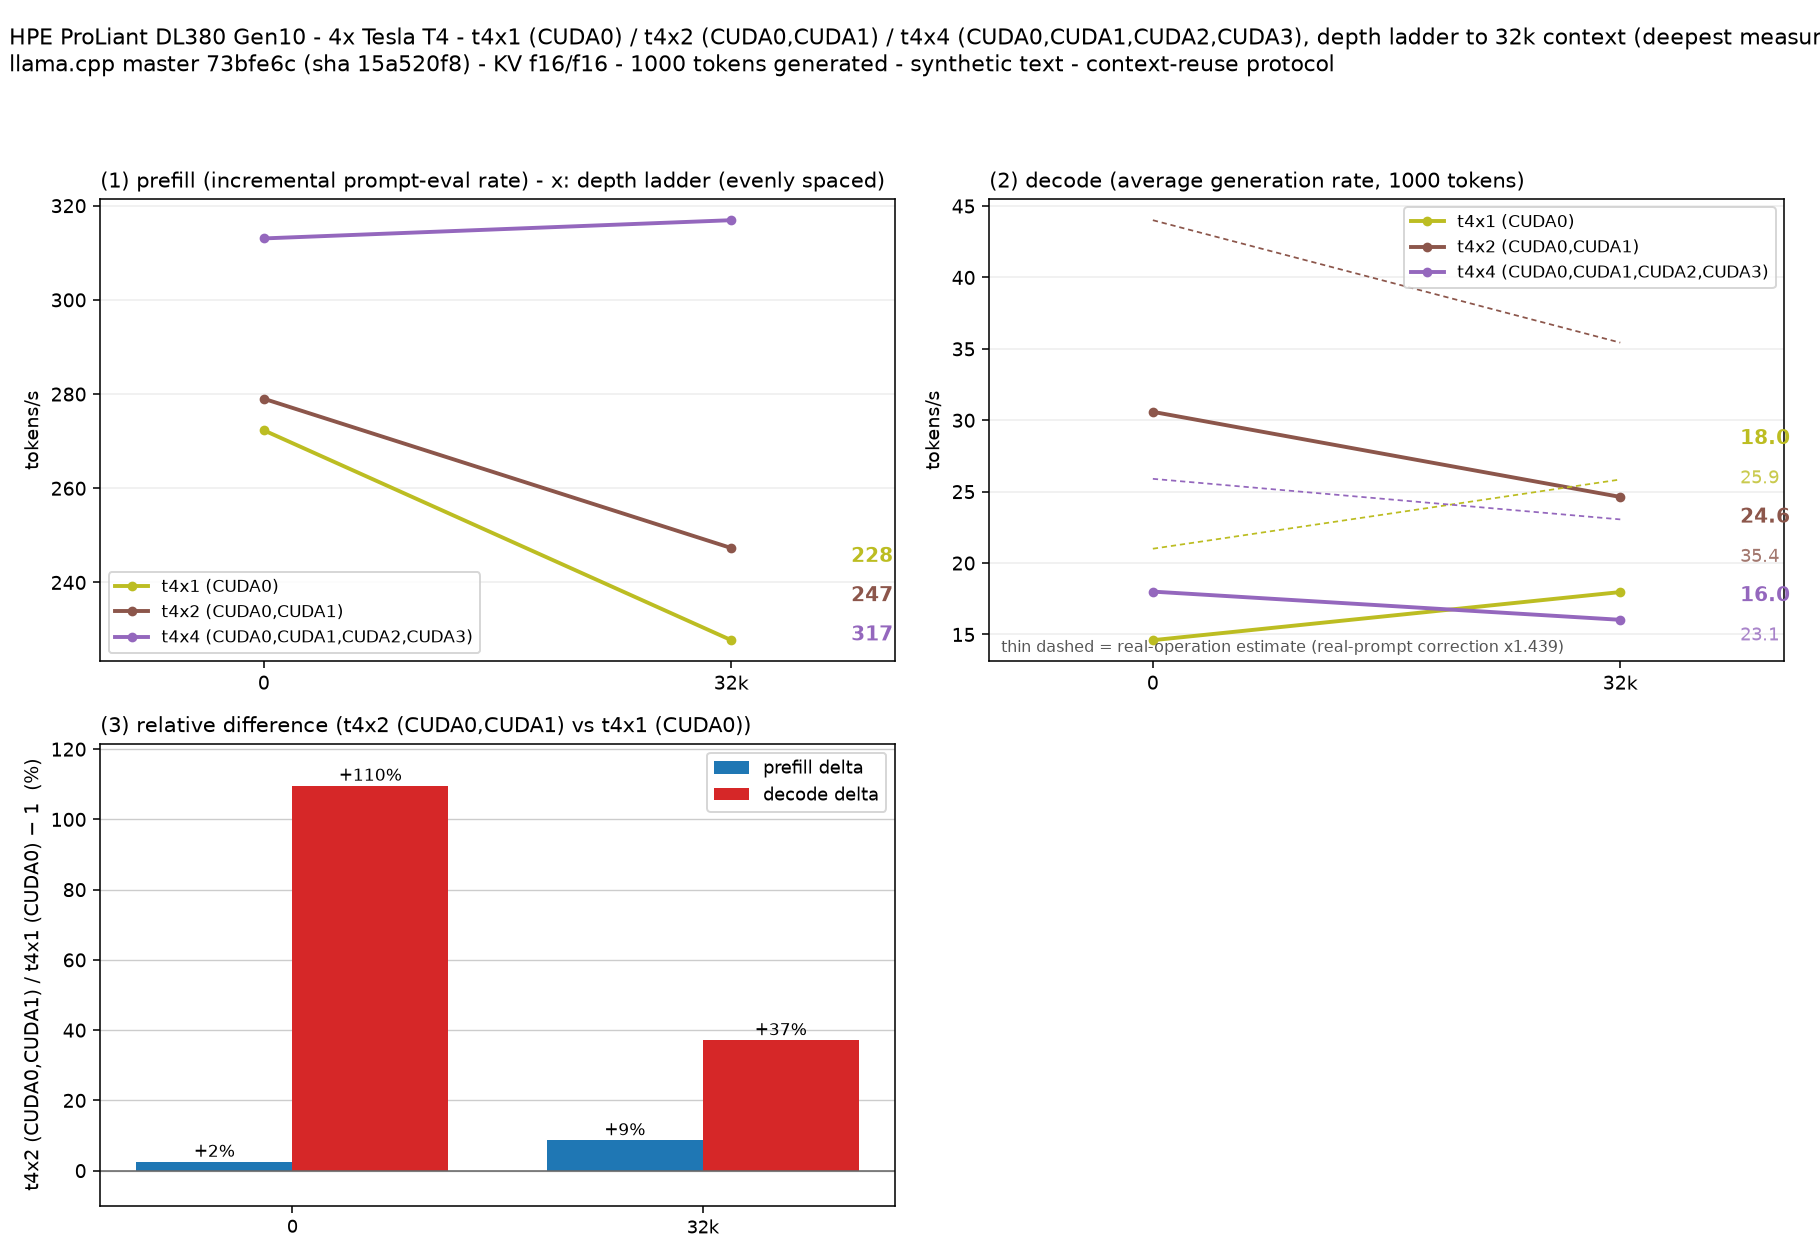
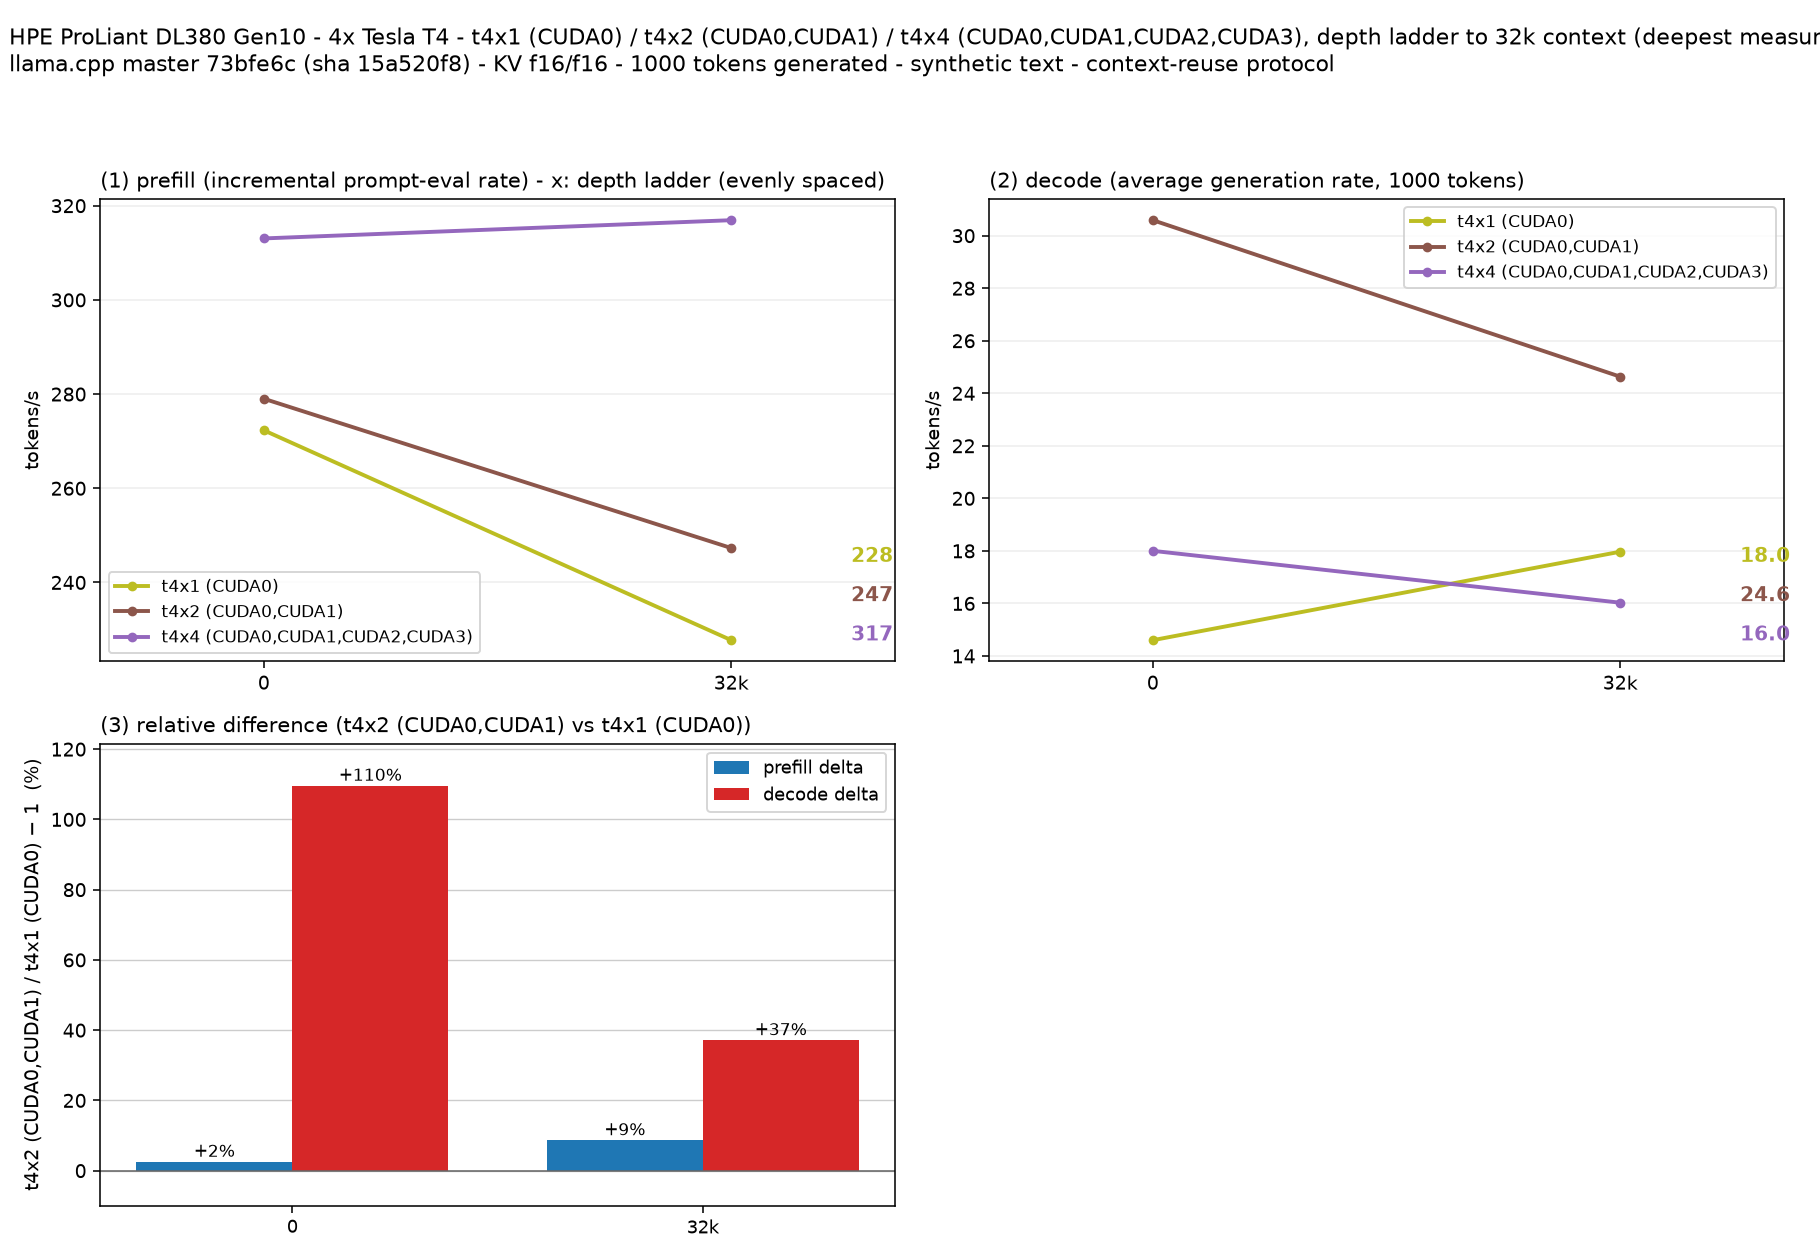
report: drop the misleading estimate line and attach evidence for manual numbers
- re-plot ptq1-scale-32k without the real-operation estimate (factor came from the 1-GPU arm only)
- add manual-mtp-probe.json (re-run of the 8k MTP probes) and use its numbers
- add vram-at-load.txt and mtp-2gpu-262k-stage0.json for the VRAM/OOM claims

diff --git a/report/2026-10-21_090037_profiling_ternary_bonsai_2_27b_up_to_256k_on_4x_tesla_t4.md b/report/2026-10-21_090037_profiling_ternary_bonsai_2_27b_up_to_256k_on_4x_tesla_t4.md
@@ -113,7 +113,7 @@ prefill は 258k で PQ2_0 90.9 対 PTQ1_0 90.4 t/s、32k で 312.7 対 300.8 t/
 
 ![GPU 枚数の比較](attachment/2026-10-21_090037_profiling_ternary_bonsai_2_27b_up_to_256k_on_4x_tesla_t4/ptq1-scale-32k/split-bench-ja.png)
 
-いずれも layer 分割、KV f16 です。
+いずれも layer 分割、KV f16 です。この図では薄い破線の「実運用推定」を外しています。補正係数（1.439）は 1 枚の腕の実プロンプト計測から求めた値で、そのまま 2 枚・4 枚の腕に当てると実測より高い線になり誤解を招くためです。
 
 | 構成 | prefill（32k） | decode（depth 0） | decode（32k） |
 |------|------:|------:|------:|
@@ -164,13 +164,23 @@ MTP なしの PTQ1_0（同じ 4 枚・262k・KV f16）との比較です。
 | PTQ1_0（MTP なし、2 枚） | 30.59 | 24.63 | — |
 | PTQ1_0 + MTP（2 枚、n-max 2） | 51.00 | 48.95 | 0.993 |
 
-同じ 2 枚・32k で比べると、MTP は decode を **1.67 倍（depth 0）/ 1.99 倍（32k）** に伸ばしました。27B 級を T4 2 枚で約 49 t/s で回せる計算になります。深さ 32k で採択率が 0.993 まで上がるのは、フィラーで埋めた長いプロンプトの続きを書かせる計測の性質上、下書きが当たりやすいためです。この腕は実プロンプト補正の前（32k 段の直後）に中断したため、上の表はラダー値そのままで、4 枚の実測（補正係数 0.780）を当てはめると実運用は 40 t/s 前後になります。参考として、8k コンテキスト・コード生成プロンプト（600 トークン、temperature 0）の手動計測では 2 枚 + MTP が 46.3 t/s（採択率 0.697、n-max 2）、44.3 t/s（同 0.828、n-max 1）でした。**n-max 2 の方が速く**、4 枚 + MTP の同条件は 30.5 t/s（同 0.754）でした。
+同じ 2 枚・32k で比べると、MTP は decode を **1.67 倍（depth 0）/ 1.99 倍（32k）** に伸ばしました。27B 級を T4 2 枚で約 49 t/s で回せる計算になります。深さ 32k で採択率が 0.993 まで上がるのは、フィラーで埋めた長いプロンプトの続きを書かせる計測の性質上、下書きが当たりやすいためです。この腕は実プロンプト補正の前（32k 段の直後）に中断したため、上の表はラダー値そのままで、4 枚の実測（補正係数 0.780）を当てはめると実運用は 40 t/s 前後になります。
 
-262k を 2 枚で確保しようとした腕は、32k 段の prefill 時に CUDA1 の計算バッファ（約 1.2 GB）を確保できず `cudaMalloc failed: out of memory` で中断しました（ロード直後の時点で GPU0 12,407 MiB / GPU1 14,899 MiB を使用）。f16 KV の 262k は 2 枚では計算バッファの余裕が残らないため、**256k で MTP を使うなら 4 枚か、KV の量子化が必要**です。なお、この中断した腕でも depth 0 の decode は 52.90 t/s（採択率 0.895）と記録されています。
+参考として、8k コンテキスト・コード生成プロンプト（600 トークン、temperature 0）の手動計測を別途 3 回行いました（生の `timings` は [manual-mtp-probe.json](attachment/2026-10-21_090037_profiling_ternary_bonsai_2_27b_up_to_256k_on_4x_tesla_t4/manual-mtp-probe.json)）。
+
+| 構成 | decode | 採択率 |
+|------|------:|------:|
+| 2 枚 + MTP（n-max 2） | 46.17 t/s | 0.697 |
+| 2 枚 + MTP（n-max 1） | 43.77 t/s | 0.828 |
+| 4 枚 + MTP（n-max 2） | 29.41 t/s | 0.697 |
+
+**n-max 2 の方が速く**、4 枚は同じ条件でも 2 枚の 64% まで落ちます。この手動計測は 2 回実施し、decode は 3% 以内で一致しました。
+
+262k を 2 枚で確保しようとした腕は、32k 段の prefill 時に CUDA1 の計算バッファ（約 1.2 GB）を確保できず `cudaMalloc failed: out of memory` で中断しました（ロード直後の時点で GPU0 12,407 MiB / GPU1 14,899 MiB を使用）。f16 KV の 262k は 2 枚では計算バッファの余裕が残らないため、**256k で MTP を使うなら 4 枚か、KV の量子化が必要**です。なお、この中断した腕でも depth 0 の decode は 52.90 t/s（採択率 0.895）と記録されています。ロード直後の VRAM 使用量と OOM の実ログは [vram-at-load.txt](attachment/2026-10-21_090037_profiling_ternary_bonsai_2_27b_up_to_256k_on_4x_tesla_t4/vram-at-load.txt)、中断時点の段 0 の生データは [mtp-2gpu-262k-stage0.json](attachment/2026-10-21_090037_profiling_ternary_bonsai_2_27b_up_to_256k_on_4x_tesla_t4/mtp-2gpu-262k-stage0.json) にあります。
 
 ### 所感
 
-- **27B 級が 6〜7 GB で動き、262k まで実用速度で扱える**のは T4 のような古い 15 GB カードでは大きな意味があります。4 枚あれば VRAM はまったく余ります（262k ロード時で約 7 GB / 枚）。
+- **27B 級が 6〜7 GB で動き、262k まで実用速度で扱える**のは T4 のような古い 15 GB カードでは大きな意味があります。4 枚あれば VRAM はまったく余ります（262k ロード時で 6.8〜7.2 GB / 枚、実測は [vram-at-load.txt](attachment/2026-10-21_090037_profiling_ternary_bonsai_2_27b_up_to_256k_on_4x_tesla_t4/vram-at-load.txt)）。
 - 量子化は **迷ったら PTQ1_0**。ファイルが 1.26 GB 小さく、decode が 1.3〜1.7 倍速く、prefill の差は数 % です。モデルカードの L4 の数値（PQ2_0 29.8 / PTQ1_0 32.1 t/s）と同じ向きの結果でした。
 - **GPU は増やせば速くなるわけではありません。** layer 分割の decode は 2 枚がピークで、4 枚は NUMA 跨ぎで落ちます。既存の Ornith / Nemotron 系で 4 枚を使っていた構成をそのまま流用すると、このモデルでは損をする可能性があります。
 - MTP は効きますが、**ラダーの数字ほどではありません**。合成フィラーの連続生成では decode が 1.7〜1.9 倍になりますが、実プロンプトでは採択率が 0.5〜0.6 に落ちて実効 1.4 倍、しかも prefill が 15〜31% 遅くなります。32k までの短い文脈を 2 枚で回す用途（約 46 t/s）では効果が大きく、262k を毎回読み直す用途では相殺されがちです。メモリ余裕とのトレードオフもあり、262k × 2 枚では入りません。
@@ -189,4 +199,7 @@ MTP なしの PTQ1_0（同じ 4 枚・262k・KV f16）との比較です。
 - PTQ1_0・1/2/4 枚・32k: [run-info.json](attachment/2026-10-21_090037_profiling_ternary_bonsai_2_27b_up_to_256k_on_4x_tesla_t4/ptq1-scale-32k/run-info.json) / [results-t4x1.json](attachment/2026-10-21_090037_profiling_ternary_bonsai_2_27b_up_to_256k_on_4x_tesla_t4/ptq1-scale-32k/results-t4x1.json) / [results-t4x2.json](attachment/2026-10-21_090037_profiling_ternary_bonsai_2_27b_up_to_256k_on_4x_tesla_t4/ptq1-scale-32k/results-t4x2.json) / [results-t4x4.json](attachment/2026-10-21_090037_profiling_ternary_bonsai_2_27b_up_to_256k_on_4x_tesla_t4/ptq1-scale-32k/results-t4x4.json)
 - PTQ1_0 + MTP・4 枚・262k: [run-info.json](attachment/2026-10-21_090037_profiling_ternary_bonsai_2_27b_up_to_256k_on_4x_tesla_t4/ptq1-mtp-t4x4-262k/run-info.json) / [results-t4x4.json](attachment/2026-10-21_090037_profiling_ternary_bonsai_2_27b_up_to_256k_on_4x_tesla_t4/ptq1-mtp-t4x4-262k/results-t4x4.json) / [results-t4x4-pp0.json](attachment/2026-10-21_090037_profiling_ternary_bonsai_2_27b_up_to_256k_on_4x_tesla_t4/ptq1-mtp-t4x4-262k/results-t4x4-pp0.json) / [results-real.json](attachment/2026-10-21_090037_profiling_ternary_bonsai_2_27b_up_to_256k_on_4x_tesla_t4/ptq1-mtp-t4x4-262k/results-real.json) / [argv-t4x4.txt](attachment/2026-10-21_090037_profiling_ternary_bonsai_2_27b_up_to_256k_on_4x_tesla_t4/ptq1-mtp-t4x4-262k/argv-t4x4.txt)
 - PTQ1_0 + MTP・2 枚・32k: [results-t4x2.json](attachment/2026-10-21_090037_profiling_ternary_bonsai_2_27b_up_to_256k_on_4x_tesla_t4/ptq1-mtp-t4x2-32k/results-t4x2.json) / [results-t4x2-pp0.json](attachment/2026-10-21_090037_profiling_ternary_bonsai_2_27b_up_to_256k_on_4x_tesla_t4/ptq1-mtp-t4x2-32k/results-t4x2-pp0.json) / [argv-t4x2.txt](attachment/2026-10-21_090037_profiling_ternary_bonsai_2_27b_up_to_256k_on_4x_tesla_t4/ptq1-mtp-t4x2-32k/argv-t4x2.txt)（ラダー完了後、実プロンプト補正の前に中断したため図と run-info はありません）
+- 手動 MTP 比較（8k、n-max 1/2、2/4 枚）: [manual-mtp-probe.json](attachment/2026-10-21_090037_profiling_ternary_bonsai_2_27b_up_to_256k_on_4x_tesla_t4/manual-mtp-probe.json)
+- 262k × 2 枚の中断時 段 0: [mtp-2gpu-262k-stage0.json](attachment/2026-10-21_090037_profiling_ternary_bonsai_2_27b_up_to_256k_on_4x_tesla_t4/mtp-2gpu-262k-stage0.json)
+- ロード直後の VRAM と OOM のログ抜粋: [vram-at-load.txt](attachment/2026-10-21_090037_profiling_ternary_bonsai_2_27b_up_to_256k_on_4x_tesla_t4/vram-at-load.txt)
 
